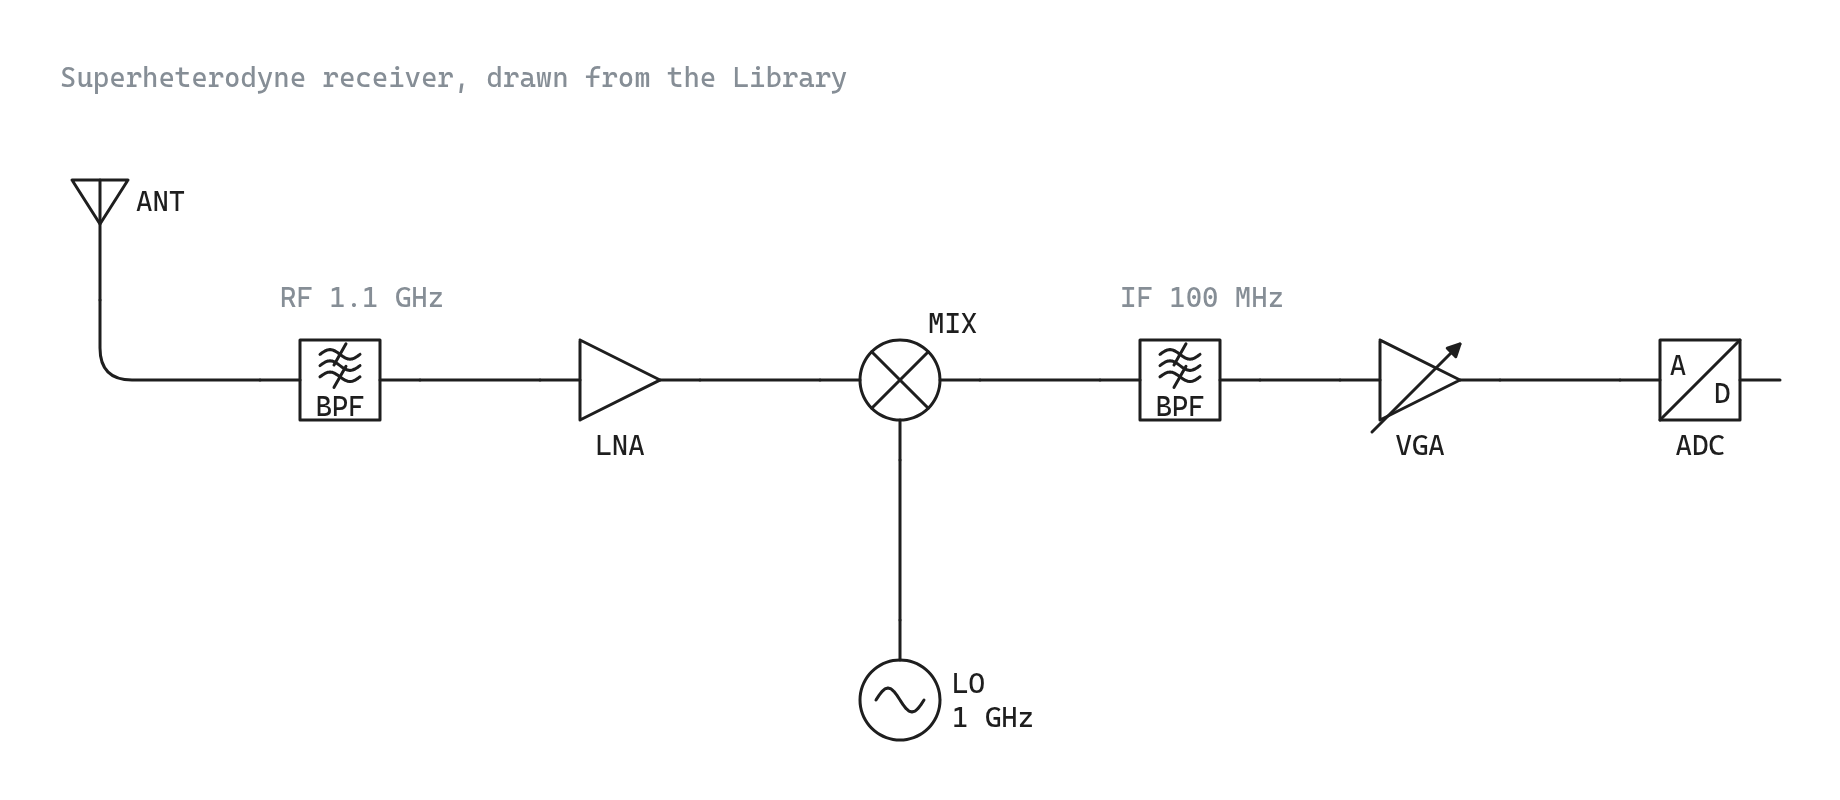
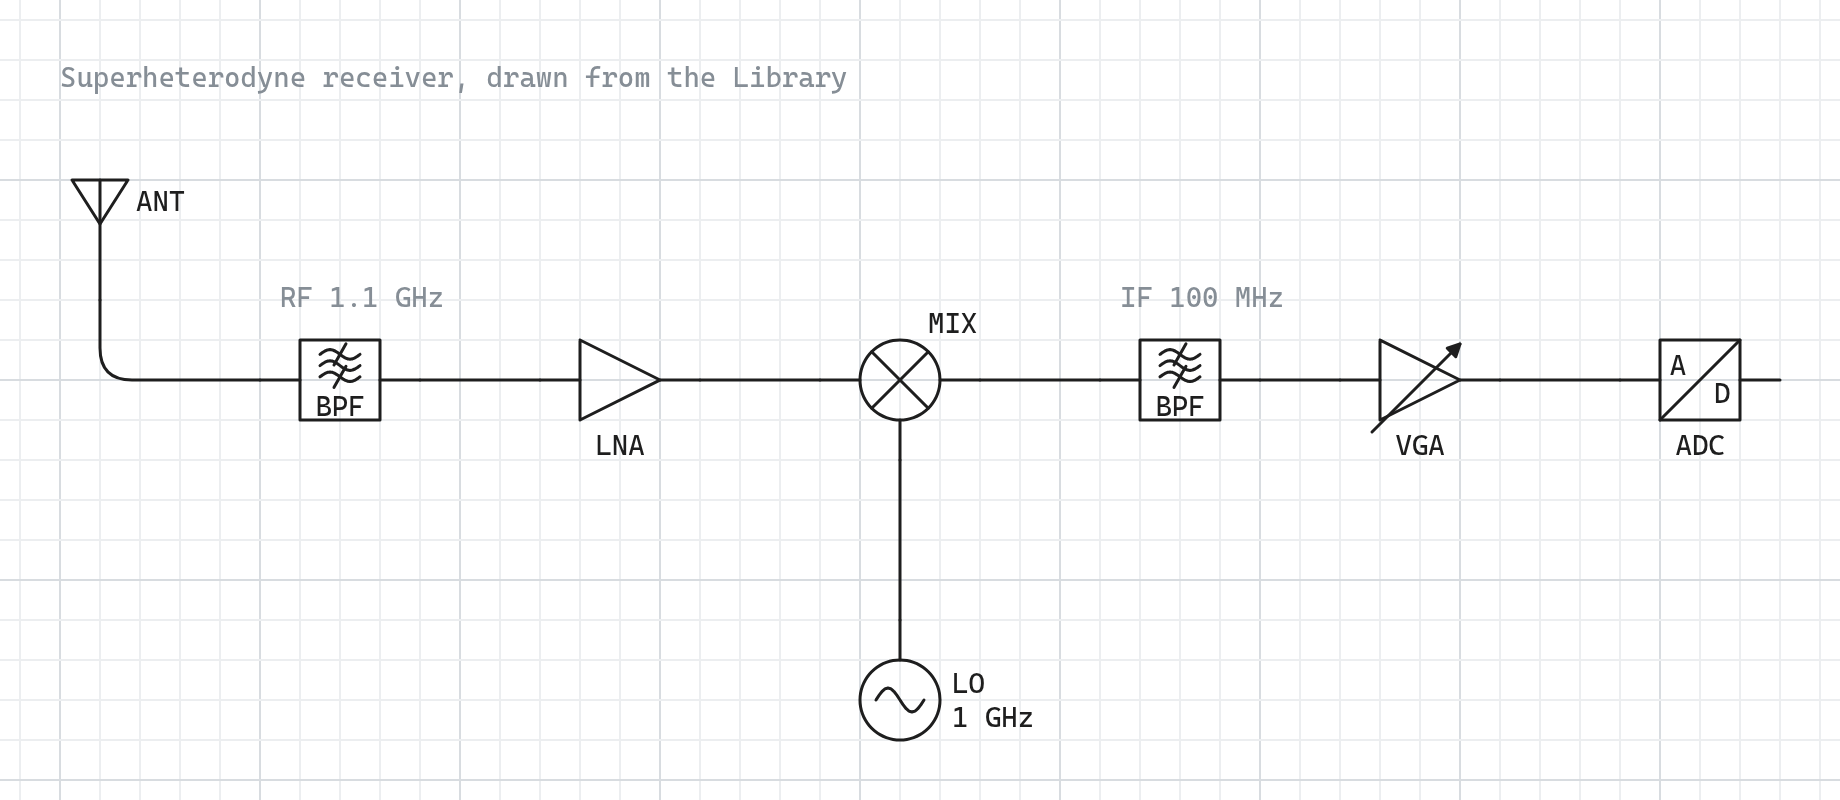
README image: show the template's 20px grid behind the drawing

diff --git a/scripts/readme-image.ts b/scripts/readme-image.ts
@@ -91,15 +91,29 @@ writeFileSync(`${out}/receiver.excalidraw`, `${JSON.stringify({ type: "excalidra
 
 const svg: SVGElement = await (L as any).exportToSvg({ elements: scene, appState, files: null, exportPadding: 30, skipInliningFonts: true });
 const fontFile = readFileSync("fonts/Cascadia.woff2").toString("base64");
-const svgText = svg.outerHTML.replace(/font-family="[^"]*"/g, 'font-family="Cascadia Code, monospace"');
+// Excalidraw's export leaves the grid out, so draw the template's own: lines every 20px on scene
+// coordinates (where the Pins sit), every fifth one stronger, behind everything else.
+const [minX, minY] = L.getCommonBounds(scene);
+const [offsetX, offsetY] = [30 - minX, 30 - minY];
+const [width, height] = [Number(svg.getAttribute("width")), Number(svg.getAttribute("height"))];
+const grid = (to: number, offset: number, vertical: boolean) => {
+  const lines: string[] = [];
+  for (let at = offset % 20, k = Math.round((at - offset) / 20); at <= to; at += 20, k++) {
+    const colour = k % template.appState.gridStep === 0 ? "#d8dce0" : "#eceef0";
+    lines.push(vertical ? `<line x1="${at}" y1="0" x2="${at}" y2="${height}" stroke="${colour}"/>` : `<line x1="0" y1="${at}" x2="${width}" y2="${at}" stroke="${colour}"/>`);
+  }
+  return lines.join("");
+};
+const gridSvg = `<g stroke-width="1" shape-rendering="crispEdges">${grid(width, offsetX, true)}${grid(height, offsetY, false)}</g>`;
+const svgText = svg.outerHTML
+  .replace(/font-family="[^"]*"/g, 'font-family="Cascadia Code, monospace"')
+  .replace(/(<rect x="0" y="0"[^>]*><\/rect>)/, `$1${gridSvg}`);
 writeFileSync(`${out}/receiver.svg`, svgText);
 
 // PNG through headless Chromium, with the font the Symbols use.
 const html = `<!doctype html><style>@font-face{font-family:"Cascadia Code";src:url(data:font/woff2;base64,${fontFile})}body{margin:0;background:#fff}svg{display:block}</style>${svgText}`;
 const page = `${out}/.receiver.html`;
 writeFileSync(page, html);
-const width = Number(svg.getAttribute("width"));
-const height = Number(svg.getAttribute("height"));
 try {
   execFileSync("chromium", ["--headless", "--disable-gpu", "--force-device-scale-factor=2", `--window-size=${width},${height}`, `--screenshot=${out}/receiver.png`, `file://${process.cwd()}/${page}`], { stdio: "ignore" });
 } finally {

diff --git a/README.md b/README.md
@@ -4,7 +4,7 @@ An Excalidraw library of IEC 60617 electronic schematic symbols and RF block sym
 
 ![A superheterodyne receiver chain drawn from the Library: antenna, band-pass filter, LNA, mixer with a local oscillator, IF band-pass filter, variable-gain amplifier and ADC](docs/images/receiver.png)
 
-*Drawn from the Library's own Symbols on the project's Template settings, with elbow Wires bound to the Pins. Open [`docs/images/receiver.excalidraw`](docs/images/receiver.excalidraw) in Excalidraw to edit it; `npm run readme-image` rebuilds it.*
+*Drawn from the Library's own Symbols on the project's Template settings (20px grid on), with elbow Wires bound to the Pins. Open [`docs/images/receiver.excalidraw`](docs/images/receiver.excalidraw) in Excalidraw to edit it; `npm run readme-image` rebuilds it.*
 
 ## What's in it
 
